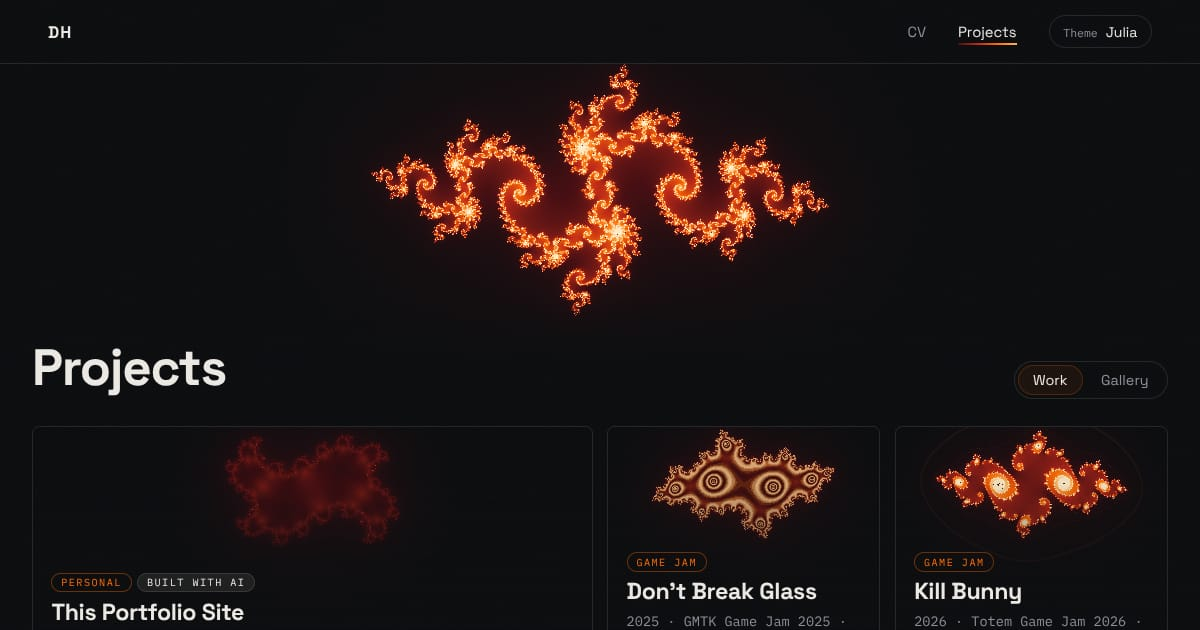
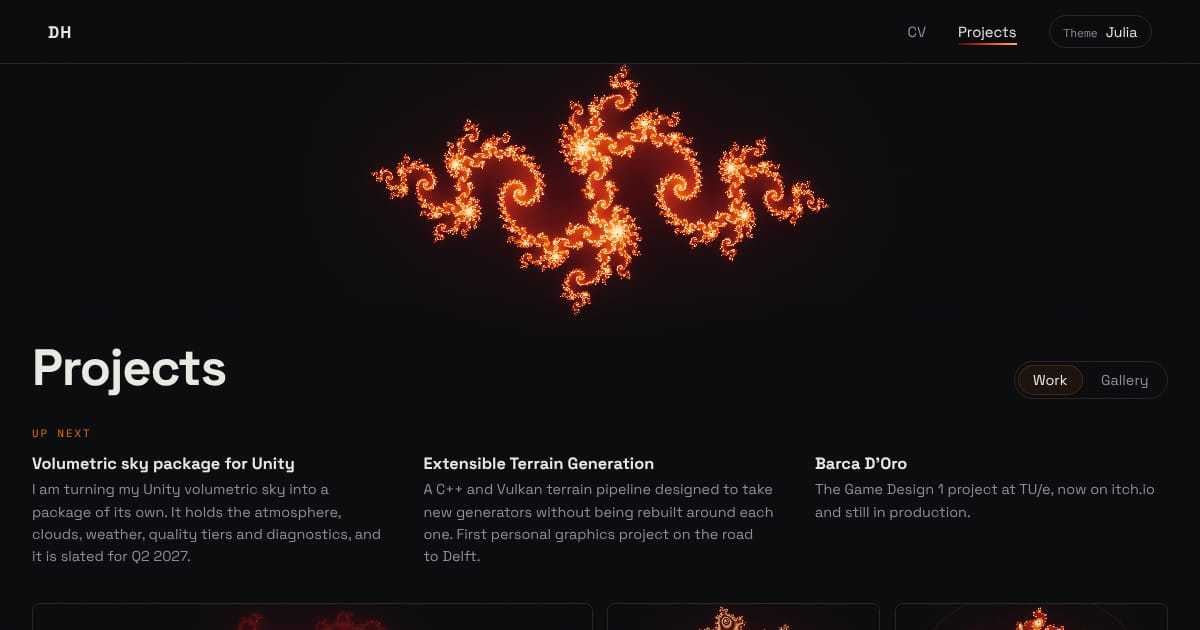
Remove the Upscalers package
The upscalers package is gone from the projects, the Up next entry now
announces the sky package alone, and the other packages no longer name
it. The mosaic's last rows are (2+2)(2+2).

diff --git a/src/content/projects.ts b/src/content/projects.ts
@@ -1,7 +1,7 @@
 import type { Project } from './types'
 
 // The Unity packages share their tools and when they are due. The note on how
-// they were built goes on the sky and upscaler pages and nowhere else.
+// they were built goes on the sky page and nowhere else.
 const PACKAGE_TOOLS = ['Unity', 'C#', 'HLSL']
 const PACKAGE_DUE = 'Q2 2027'
 const PACKAGE_NOTE =
@@ -301,19 +301,6 @@ Vulkan are the current case and are being learned directly.
     links: [{ label: 'Guide and docs', url: 'https://damyanlhr.github.io/packages/sky/' }],
   },
   {
-    slug: 'upscalers-package',
-    art: { effect: 'mandel-julia' },
-    title: 'Upscalers',
-    category: 'package',
-    status: 'coming-soon',
-    expected: PACKAGE_DUE,
-    tools: PACKAGE_TOOLS,
-    summary:
-      "DLSS and FSR 2 for Unity in one package, com.damyanlhr.upscalers, through Unity's own NVIDIA and AMD engine modules. It comes with a reactive-mask hook, and my sky package fills it. Like the sky, it will get its own repository later.",
-    body: PACKAGE_NOTE,
-    links: [{ label: 'Guide and docs', url: 'https://damyanlhr.github.io/packages/upscalers/' }],
-  },
-  {
     slug: 'terrain-rendering',
     art: { effect: 'newton' },
     title: 'Terrain Rendering',
@@ -322,7 +309,7 @@ Vulkan are the current case and are being learned directly.
     expected: PACKAGE_DUE,
     tools: PACKAGE_TOOLS,
     summary:
-      'A Unity package for rendering terrain, for URP and HDRP. It is planned as part of the same family as my sky and upscaler packages. It is separate from Extensible Terrain Generation, my C++ and Vulkan project.',
+      'A Unity package for rendering terrain, for URP and HDRP. It is planned as part of the same family as my sky package. It is separate from Extensible Terrain Generation, my C++ and Vulkan project.',
     links: [
       { label: 'Guide and docs', url: 'https://damyanlhr.github.io/packages/terrain-rendering/' },
     ],
@@ -336,7 +323,7 @@ Vulkan are the current case and are being learned directly.
     expected: PACKAGE_DUE,
     tools: PACKAGE_TOOLS,
     summary:
-      'A Unity package that dresses a terrain with vegetation, rocks and ground detail placed over it, for URP and HDRP. It is planned as part of the same family as my sky and upscaler packages. Like Terrain Rendering, it is separate from Extensible Terrain Generation, my C++ and Vulkan project.',
+      'A Unity package that dresses a terrain with vegetation, rocks and ground detail placed over it, for URP and HDRP. It is planned as part of the same family as my sky package. Like Terrain Rendering, it is separate from Extensible Terrain Generation, my C++ and Vulkan project.',
     links: [
       { label: 'Guide and docs', url: 'https://damyanlhr.github.io/packages/terrain-dressing/' },
     ],
@@ -350,7 +337,7 @@ Vulkan are the current case and are being learned directly.
     expected: PACKAGE_DUE,
     tools: PACKAGE_TOOLS,
     summary:
-      'A Unity package for water. It is planned as part of the same family as my sky, upscaler and terrain packages.',
+      'A Unity package for water. It is planned as part of the same family as my sky and terrain packages.',
     links: [{ label: 'Guide and docs', url: 'https://damyanlhr.github.io/packages/water/' }],
   },
 ]

diff --git a/src/themes/julia/views.tsx b/src/themes/julia/views.tsx
@@ -180,7 +180,7 @@ export function Cv({ content, navigate }: { content: SiteContent; navigate: Nav 
 }
 
 // Mosaic weights for the four-column grid, in roster order, so every row fills
-// exactly: (2+1+1)(1+2+1)(1+2+1)(2+1+1)(2+2). A slug missing here falls back to 1, which
+// exactly: (2+1+1)(1+2+1)(1+2+1)(2+2)(2+2). A slug missing here falls back to 1, which
 // can leave a ragged row, so this map moves whenever a project is added.
 const CARD_SPAN: Record<string, number> = {
   'this-site': 2,
@@ -194,8 +194,7 @@ const CARD_SPAN: Record<string, number> = {
   'extensible-terrain-generation': 2,
   'barca-doro': 1,
   'sky-package': 2,
-  'upscalers-package': 1,
-  'terrain-rendering': 1,
+  'terrain-rendering': 2,
   'terrain-dressing': 2,
   'water-package': 2,
 }

diff --git a/src/content/announcements.ts b/src/content/announcements.ts
@@ -5,8 +5,8 @@ import type { Announcement } from './types'
 export const announcements: Announcement[] = [
   {
     id: 'unity-sky-packages',
-    title: 'Sky and upscaler packages for Unity',
-    body: "I am splitting my Unity volumetric sky into packages. The sky package holds the atmosphere, clouds, weather, quality tiers and diagnostics, and the upscaler package brings DLSS and FSR 2 through Unity's own engine modules. Each one gets its own repository, and both are slated for Q2 2027.",
+    title: 'Volumetric sky package for Unity',
+    body: 'I am turning my Unity volumetric sky into a package of its own. It holds the atmosphere, clouds, weather, quality tiers and diagnostics, and it is slated for Q2 2027.',
   },
   {
     id: 'extensible-terrain-generation',
